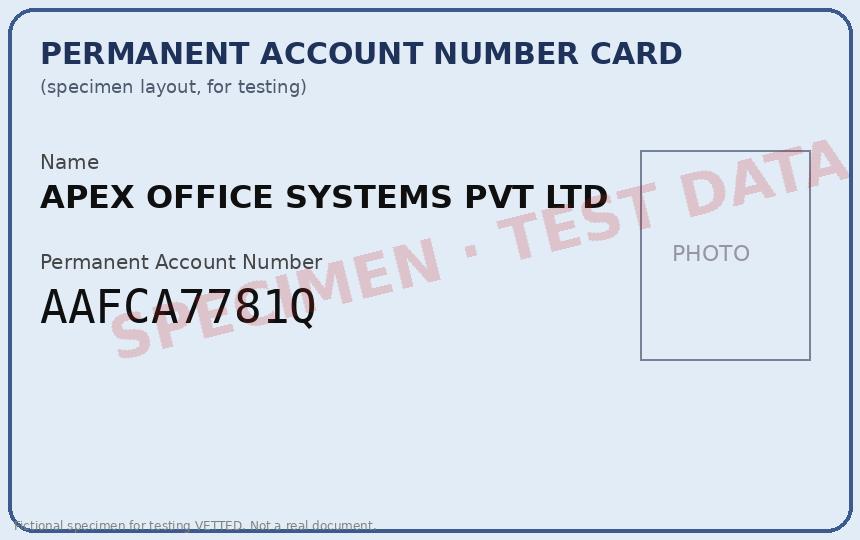
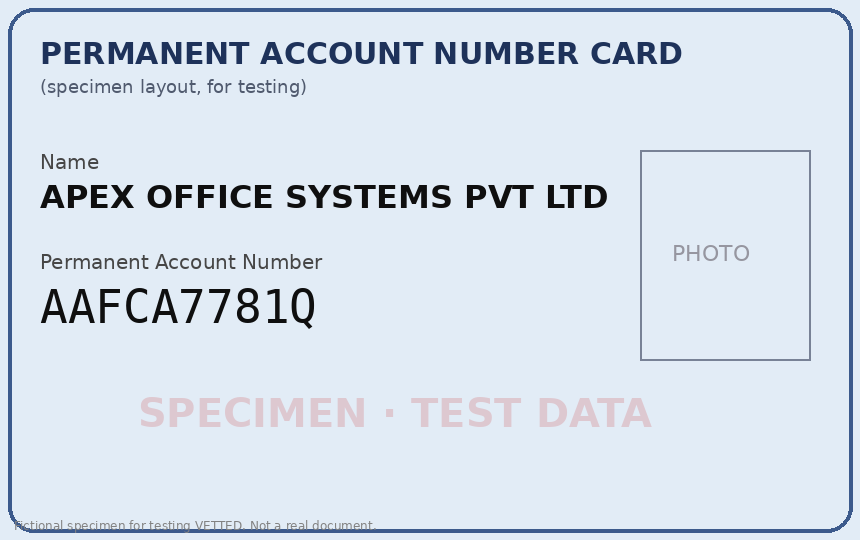
Read documents more reliably: watermark off key numbers, format hints, malformed readings go to review
Claude-Session: https://claude.ai/code/session_015zepUFVhdmJJXZFJR9AUv2

diff --git a/src/lib/engine.ts b/src/lib/engine.ts
@@ -255,9 +255,10 @@ async function crossCheck(ctx: Ctx, s: Stage) {
   if (!stOk) F(ctx, { code: 'XCK-STATE', severity: 'vendor', stage: 'cross', title: 'GSTIN state differs from the address', detail: `The GSTIN is registered in ${gState} but the address given is in ${sub.address.state}. Each state needs its own GSTIN.`, ask: ask.field('gstin', `Give the GSTIN registered in ${sub.address.state}, or correct the address`) })
   // Documents vs form
   if (gst) {
-    const gstNo = (gst.gstin || '').toUpperCase()
-    s.checks.push({ label: 'GSTIN on certificate', status: gstNo === g ? 'pass' : 'fail', detail: gstNo === g ? 'Matches the form' : `Certificate shows ${gstNo || 'no GSTIN'}, form says ${g}` })
-    if (gstNo && gstNo !== g) F(ctx, { code: 'XCK-GSTCERT', severity: 'vendor', stage: 'cross', title: 'GST certificate is for a different GSTIN', detail: `The certificate shows ${gstNo}; the form says ${g}.`, ask: ask.doc('gst_certificate', `Upload the GST certificate for ${g}`) })
+    const gstNo = (gst.gstin || '').toUpperCase().replace(/\s/g, '')
+    if (gstNo && !GSTIN_RE.test(gstNo)) { s.checks.push({ label: 'GSTIN on certificate', status: 'warn', detail: `AI read "${gstNo}", which is not a valid GSTIN, so it was not used` }); F(ctx, { code: 'DOC-MISREAD', severity: 'review', stage: 'cross', title: 'GSTIN on the certificate could not be read reliably', detail: `The AI reading "${gstNo}" is not a valid GSTIN. A person should compare the certificate with ${g}.` }) }
+    else s.checks.push({ label: 'GSTIN on certificate', status: gstNo === g ? 'pass' : 'fail', detail: gstNo === g ? 'Matches the form' : `Certificate shows ${gstNo || 'no GSTIN'}, form says ${g}` })
+    if (gstNo && GSTIN_RE.test(gstNo) && gstNo !== g) F(ctx, { code: 'XCK-GSTCERT', severity: 'vendor', stage: 'cross', title: 'GST certificate is for a different GSTIN', detail: `The certificate shows ${gstNo}; the form says ${g}.`, ask: ask.doc('gst_certificate', `Upload the GST certificate for ${g}`) })
     const names = [gst.legal_name, gst.trade_name].filter(Boolean) as string[]
     const m = await Promise.all(names.map(n => sameName(ctx, sub.legal_name, n, 'vendor form legal name vs GST certificate')))
     const hit = m.findIndex(x => x.same)
@@ -275,9 +276,15 @@ async function crossCheck(ctx: Ctx, s: Stage) {
     if (!(panFits && consFits)) F(ctx, { code: 'XCK-BIZTYPE', severity: 'vendor', stage: 'cross', title: `Declared as ${sub.business_type}, but PAN and GST say ${cons || panType?.label}`, detail: `The PAN's 4th character (${p[3]}) means ${panType?.label || 'another holder type'} and the GST certificate says ${gst.constitution}. The contract, TDS rate and documents needed all depend on the real business type.`, ask: ask.field('business_type', `Confirm your business type (your PAN and GST registration say ${cons || panType?.label})`) })
   }
   if (pan) {
-    const pNo = (pan.pan || '').toUpperCase()
+    const pNo = (pan.pan || '').toUpperCase().replace(/\s/g, '')
+    if (pNo && !PAN_RE.test(pNo)) {
+      // A reading that isn't even a valid PAN is a misread, not evidence of a different PAN.
+      s.checks.push({ label: 'PAN on PAN card', status: 'warn', detail: `AI read "${pNo}", which is not a valid PAN, so it was not used` })
+      F(ctx, { code: 'DOC-MISREAD', severity: 'review', stage: 'cross', title: 'PAN on the card could not be read reliably', detail: `The AI reading "${pNo}" is not a valid PAN. A person should compare the card with ${p}.` })
+    } else {
     s.checks.push({ label: 'PAN on PAN card', status: pNo === p ? 'pass' : 'fail', detail: pNo === p ? 'Matches the form' : `Card shows ${pNo || 'no PAN'}, form says ${p}` })
     if (pNo && pNo !== p) F(ctx, { code: 'XCK-PANCARD', severity: 'vendor', stage: 'cross', title: 'PAN card is for a different PAN', detail: `The card shows ${pNo}; the form says ${p}.`, ask: ask.doc('pan_card', `Upload the PAN card for ${p}`) })
+    }
   }
   if (chq) {
     const acc = (chq.account_number || '').replace(/\D/g, ''), fAcc = sub.bank.account_number.replace(/\D/g, '')

diff --git a/src/lib/gemini.ts b/src/lib/gemini.ts
@@ -123,6 +123,7 @@ const READ_PROMPT = `You are a meticulous vendor-onboarding analyst for an India
 For EACH document:
 - detected: what the document ACTUALLY is (ignore what the vendor called it): gst_certificate (GST registration certificate, REG-06), pan_card, cancelled_cheque, bank_letter (a bank's letter confirming account details), msme_certificate (Udyam), or other.
 - Copy values EXACTLY as printed. Never guess or fill in a value that isn't on the document; use null.
+  Formats, to read carefully (ignore any watermark across the text): a PAN is exactly 10 characters (5 letters, 4 digits, 1 letter, e.g. ABCDE1234F); a GSTIN is exactly 15 characters (2 digits, the 10-character PAN, 1 character, Z, 1 character); an IFSC is exactly 11 characters with 0 as the 5th. If what you see doesn't fit the format, re-read it and lower your confidence.
   gst_certificate: legal_name, trade_name, gstin, constitution (as printed, e.g. "Private Limited Company", "Partnership", "Proprietorship"), address, state, registration_date (YYYY-MM-DD, date of liability), status if printed.
   pan_card: name, pan.
   cancelled_cheque / bank_letter: account_name (the account holder printed, e.g. after "For"), account_number (digits only), ifsc, bank_name.

diff --git a/scripts/build_samples.py b/scripts/build_samples.py
@@ -204,8 +204,9 @@ def stamp(img, scanned):
     d = ImageDraw.Draw(img, 'RGBA'); W, H = img.size
     txt = 'SPECIMEN · TEST DATA'
     layer = Image.new('RGBA', img.size, (0, 0, 0, 0)); ld = ImageDraw.Draw(layer)
-    ld.text((W * 0.12, H * 0.42), txt, font=font(FB, int(H * 0.11)), fill=(200, 30, 30, 50))
-    layer = layer.rotate(14, center=(W / 2, H / 2)); img.alpha_composite(layer)
+    # Watermark sits in the lower band, clear of the key numbers (PAN, account number), so it can't cause misreads.
+    ld.text((W * 0.16, H * 0.72), txt, font=font(FB, int(H * 0.075)), fill=(200, 30, 30, 45))
+    img.alpha_composite(layer)
     d = ImageDraw.Draw(img); d.text((14, H - 22), 'Fictional specimen for testing VETTED. Not a real document.', font=font(F, 12), fill=(130, 130, 130, 255))
     if scanned:
         rgb = img.convert('L').convert('RGB').rotate(-1.4, expand=False, fillcolor=(235, 235, 230)).filter(ImageFilter.GaussianBlur(0.7))
